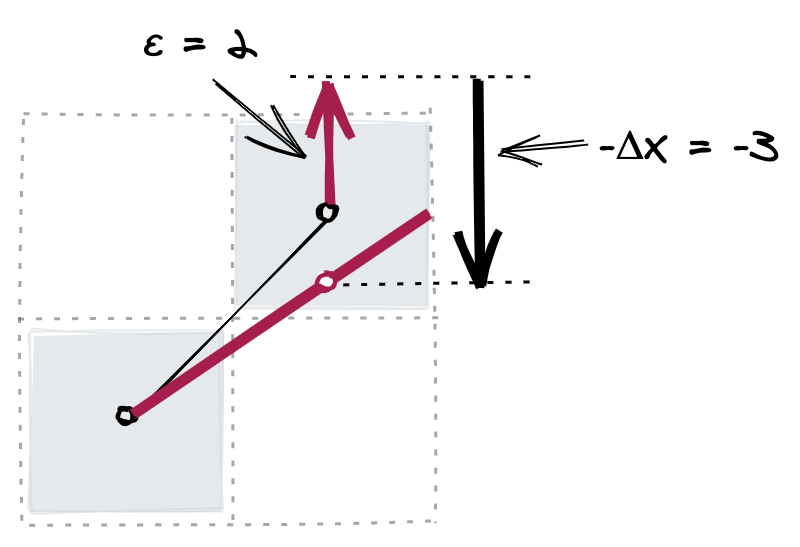
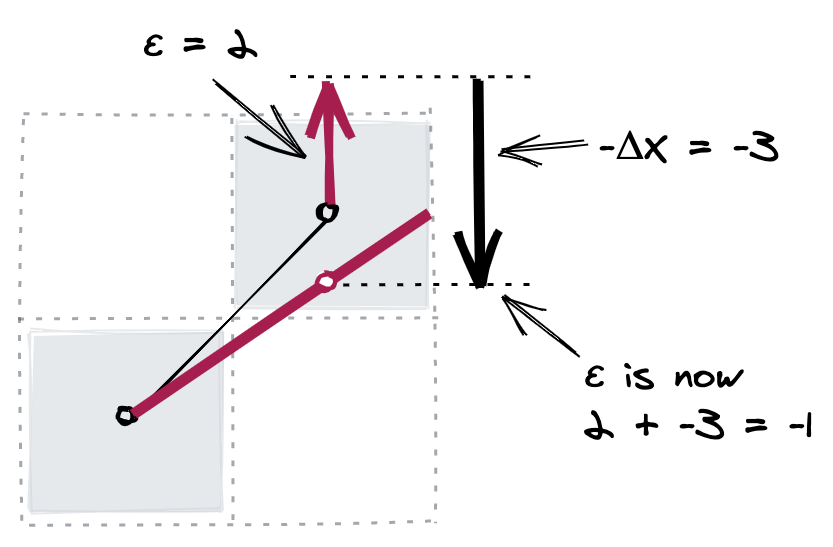
bresenham post changes

diff --git a/src/posts/2020-07-28-bresenhams-line-algorithm.md b/src/posts/2020-07-28-bresenhams-line-algorithm.md
@@ -18,7 +18,7 @@ In a vector graphics editor, a line drawn by the user is represented mathematica
 
 ![](/images/2020-07-28-bresenhams-line-algorithm/01_vector-vs-raster-v2-2x.png "Vector graphics compared to raster graphics when magnified")
 
-When a user draws a line in a raster graphics editor, it needs to be [rasterised](https://en.wikipedia.org/wiki/Rasterisation) to determine which pixels should be filled. Often the aim is to produce a smooth result and so [anti-aliasing](https://en.wikipedia.org/wiki/Spatial_anti-aliasing) is applied as part of the process. The user might also want to be able to draw lines that start and end on fractional coordinates. Pixel art is different: the jagged look of non- anti-aliased rasterisation is preferred, and lines are always drawn from whole pixel to whole pixel.
+When a user draws a line in a raster graphics editor, it needs to be [rasterised](https://en.wikipedia.org/wiki/Rasterisation) to determine which pixels should be filled. Often the aim is to produce a smooth result and so [anti-aliasing](https://en.wikipedia.org/wiki/Spatial_anti-aliasing) is applied as part of the process. The user might also want to be able to draw lines that start and end on fractional coordinates. Pixel art is different: the jagged look of non- anti-aliased rasterisation is preferred, and lines are drawn from whole pixel to whole pixel.
 
 ![](/images/2020-07-28-bresenhams-line-algorithm/02_aliased-vs-non-aliased-with-originals-v2-2x.png "Comparing rasterisation performed with and without anti-aliasing")
 
@@ -32,7 +32,7 @@ Explanations of the algorithm available on the Web at [Wikipedia](https://en.wik
 
 ![](/images/2020-07-28-bresenhams-line-algorithm/04_bresenham-guide-2x.png "The line to be rasterised")
 
-We can observe that, in rasterising this line, we will **always** be incrementing the X-axis coordinate but we will only **sometimes** be incrementing the Y-axis coordinate. This is because the change in X, which is 3, is greater than the change in Y, which is 2. The change in X is termed delta X, or ΔX, and the change in Y is termed delta Y, or ΔY. The reason we are using the Bresenham line algorithm is to answer the question of exactly when the Y-axis coordinate value should be incremented.
+We can observe that, in rasterising this line, we will _always_ be incrementing the X-axis coordinate but we will only _sometimes_ be incrementing the Y-axis coordinate. This is because the change in X, which is 3, is greater than the change in Y, which is 2. The change in X is termed delta X, or ΔX, and the change in Y is termed delta Y, or ΔY. The reason we are using the Bresenham line algorithm is to answer the question of exactly when the Y-axis coordinate value should be incremented.
 
 Conventionally, the 'always' axis is called the fast axis and the 'sometimes' axis is called the slow axis:
 
@@ -42,7 +42,7 @@ Depending on the line being rasterised, it is not always the case that the X-axi
 
 ![](/images/2020-07-28-bresenhams-line-algorithm/06_bresenham-guide-2x.png "The fast axis classification")
 
-Similarly, the following diagram shows how the slow axis classification also depends on the directional vector of the line, and how it also determines whether we need to sometimes increment or sometimes decrement the slow axis coordinate value:
+Similarly, the following diagram shows how the slow axis classification also depends on the directional vector of the line, and how it determines whether we need to sometimes increment or sometimes decrement the slow axis coordinate value:
 
 ![](/images/2020-07-28-bresenhams-line-algorithm/07_bresenham-guide-2x.png "The slow axis classification")
 
@@ -70,9 +70,9 @@ We can now define a rule: only increment the Y coordinate value if the intersect
 
 How do we express this mathematically? We could put exact figures into the calculation:
 
-![](/images/2020-07-28-bresenhams-line-algorithm/12b_bresenham-guide-2x.png "Using exact figures")
+![](/images/2020-07-28-bresenhams-line-algorithm/12b_bresenham-guide-2x.png "Using exact figures for determining the intersection point")
 
-The problem with doing this is that we will almost certainly end up with floating point values, and a key feature of the Bresenham algorithm is that it is implemented using only integer operations. We can avoid this if we use the rate of change of the fast axis as the unit value in our calculations. Thus the distance between the two pixels is ΔX, and the intersection point is ΔY above the lower pixel:
+The problem with doing this is that we will almost certainly end up with floating point values, and a key feature of the Bresenham algorithm is that it is implemented using only integer operations. We can avoid this if we use the rate of change of the fast axis as the unit value in our calculations. Thus the distance between the two pixels is ΔX, and the intersection point is ΔY above the starting pixel:
 
 ![](/images/2020-07-28-bresenhams-line-algorithm/13_bresenham-guide-2x.png "Using the rates of change to determine the intersection point")
 
@@ -96,25 +96,25 @@ Although we determined that the intersection point was closer to the pixel at (1
 
 ![](/images/2020-07-28-bresenhams-line-algorithm/17_bresenham-guide-2x.png "Desired change in Y versus actual change in Y")
 
-Each new iteration of the algorithm operates relative to the pixel filled in during the previous iteration. This requires us to first adjust the value of ε so that it is relative to the filled pixel. Since we incremented the Y-coordinate value, we can adjust ε by subtracting ΔX from it. This is 2 - 3 which equals -1 and so this is the new value of ε:
+Each new iteration of the algorithm operates relative to the pixel filled in the previous iteration. Since we are about to start a new iteration, we have to adjust the value of ε so that it is relative to the pixel just filled. We incremented the Y-coordinate value, so the change in Y was ΔX and thus we can adjust ε by subtracting ΔX from it. This is 2 - 3 which equals -1 and so this is the new value of ε:
 
 ![](/images/2020-07-28-bresenhams-line-algorithm/19_bresenham-guide-v2-2x.png "Adjusting ε after incrementing the Y coordinate value")
 
-Thus this new value of ε indicates that the true intersection point was below the filled pixel.
+This new value of ε indicates that the true intersection point was below the filled pixel, which is of course correct.
 
 We can now begin the next iteration of the algorithm:
 
 ![](/images/2020-07-28-bresenhams-line-algorithm/20_bresenham-guide-v2-2x.png "The third pixel to be filled")
 
-As before we have to determine if the Y coordinate value should be incremented or not. And as before we first add ΔY to ε. Since the value of ε after the last iteration was -1, the new value of ε is 1:
+As before we have to determine if the Y coordinate value should or should not be incremented. And as before we first add ΔY to ε. Since the value of ε after the last iteration was -1, the new value of ε is 1. We now put this information into our diagram for determining the intersection point between the two possible pixels to fill:
 
 ![](/images/2020-07-28-bresenhams-line-algorithm/21_bresenham-guide-2x.png "Using rates of change to determine the intersection point")
 
-Because of this error adjustment, the line that we are checking is actually the line that extends from the pixel that we last filled to the point at which the line being rasterised passes between the two pixels that we are currently considering. This is shown as the blue dashed line in the following diagram:
+The line that we are checking is actually the line that extends from the pixel that we last filled to the point at which the line being rasterised passes between the two pixels that we are currently considering. This is shown as the blue dashed line in the following diagram:
 
 ![](/images/2020-07-28-bresenhams-line-algorithm/22_bresenham-guide-2x.png "The effective line being tested")
 
-Again, to avoid a floating point value, we can multiply both values by two before making the comparison so that we are comparing 2ε (2) with ΔX (3):
+Again, to avoid a floating point value, we can multiply both values by two so that we are comparing 2ε (2) with ΔX (3):
 
 ![](/images/2020-07-28-bresenhams-line-algorithm/23_bresenham-guide-2x.png "Avoiding floating point values when comparing ε to the midpoint")
 
@@ -122,15 +122,17 @@ Since the intersection point is not above the midpoint, this time we do not incr
 
 ![](/images/2020-07-28-bresenhams-line-algorithm/24_bresenham-guide-2x.png "Filling the pixel at (2, 1)")
 
-Because the value of ε is not greater than the midpoint value, the next pixel has the same Y coordinate as the current pixel and we do not need to adjust the value of ε.
+Because we did not increment Y, the value of ε is still relative to the pixel that was just filled and so we do not need to adjust it in the way that we did after filling the previous pixel.
 
 Now we can determine the final pixel to fill:
 
 ![](/images/2020-07-28-bresenhams-line-algorithm/25_bresenham-guide-v2-2x.png "The final pixel to fill")
 
-(The pixel to fill is obviously (3, 2) but it is useful for illustrative purposes to continue the calculations.)
+(The pixel to fill is obviously (3, 2) but it is useful for illustrative purposes to continue these calculations.)
 
-Again we have to determine if Y should be incremented or not, and so we determine which pixel the line to rasterise is closest to:
+Since we are starting a new iteration of the algorithm, we have to first add ΔY to ε. The value of ε after the last iteration was 1 so the new value of ε is 3.
+
+As before, we need to determine which pixel the line to rasterise is closest to:
 
 ![](/images/2020-07-28-bresenhams-line-algorithm/26_bresenham-guide-2x.png "Using rates of change to determine the intersection point")
 
@@ -138,11 +140,11 @@ And as before, the line that we are checking is actually the line that extends f
 
 ![](/images/2020-07-28-bresenhams-line-algorithm/27_bresenham-guide-2x.png "The effective line being tested")
 
-As before, we multiply the values by 2 when comparing:
+As before, we multiply the values by 2 when comparing them:
 
 ![](/images/2020-07-28-bresenhams-line-algorithm/28_bresenham-guide-2x.png "Avoiding floating point values when comparing ε to the midpoint")
 
-The value of ε is greater than the threshold so the final pixel to fill is (3, 2) rather than (3, 1):
+The value of ε is greater than the threshold so the final pixel to be filled is (3, 2) rather than (3, 1):
 
 ![](/images/2020-07-28-bresenhams-line-algorithm/29_bresenham-guide-2x.png "The final rasterisation result")
 
@@ -207,7 +209,7 @@ var sy = dy > 0 ? 1 : -1;
 
 The value of `sx` ('sign X') indicates if ΔX is positive (when `sx` is `1`) or negative (when `sx` is `-1`). Similarly the value of `sy` ('sign Y') indicates if ΔY is positive (when `sy` is `1`) or negative (when `sy` is `-1`).
 
-The epsilon variable, called `eps` is defined next. As expected, it is initialised to zero:
+The epsilon variable, called `eps`, is defined next. As expected it is initialised to zero:
 
 ```js
 var eps = 0;
@@ -219,7 +221,7 @@ The algorithm now branches depending on whether the fast axis is the X-axis or t
 
 The diagram also shows that if the fast axis is the X-axis then the value of `sx` indicates if the X coordinate value should be incremented or decremented. If the fast axis is the Y-axis then it is the value of `sy` that is used to indicate this for the Y coordinate value.
 
-Let us consider the scenario when the X-axis is the fast axis. The for-loop that executes is the following:
+Let us consider the scenario where the X-axis is the fast axis. The for-loop that executes is the following:
 
 ```js
 for (var x = x0, y = y0; sx < 0 ? x >= x1 : x <= x1; x += sx) {
@@ -232,13 +234,13 @@ for (var x = x0, y = y0; sx < 0 ? x >= x1 : x <= x1; x += sx) {
 }
 ```
 
-The variables `x` and `y` identify the next pixel to be filled. The variable `x` to the line's starting X value and is is always incremented if ΔX is positive or always decremented if ΔX is negative, until `x1` is reached. The variable `y` is initialised to the line's starting Y value. At the start of each loop iteration, `x` and `y` are pushed to the result array:
+The variables `x` and `y` identify the next pixel to be filled. The variable `x` is initialised to the line's starting X value and is always incremented if ΔX is positive or always decremented if ΔX is negative, until `x1` is reached. The variable `y` is initialised to the line's starting Y value. At the start of each iteration of the loop, `x` and `y` are pushed to the result array:
 
 ```js
 arr.push({ x: x, y: y });
 ```
 
-Also, the absolute value of ΔY is added to ε:
+Then the absolute value of ΔY is added to ε:
 
 ```js
 eps += ady;
@@ -252,7 +254,7 @@ if (eps << 1 >= adx)
 
 (The expression `eps << 1` has the effect of multiplying ε by 2.)
 
-If this condition tests as true then two actions occur. First the value of `y` is incremented or decremented (according to the directional vector of the line):
+If this condition tests as true then two actions occur. Firstly the value of `y` is incremented or decremented (according to the directional vector of the line):
 
 ```js
 y += sy;
@@ -290,7 +292,7 @@ And finally here is a line from (0, 0) to (14, 2), which I would prefer to be ra
 
 ![](/images/2020-07-28-bresenhams-line-algorithm/prefer-5-5-5-2x.png "Rasterisation of a line from (0, 0) to (14, 2)")
 
-As shown in this post, the Bresenham line algorithm rasterises a line that extends from the centre of the pixel at the start of the line to the centre of the pixel at the end of the line. In order to change the rasterisation result, we would need to change this line somehow. If we want a line from (0, 0) to (8, 2) to indeed be rasterised as an increment in Y for every third increment in X, we would need to rasterise a slightly different line:
+As shown in this post, the Bresenham line algorithm rasterises an imaginary line that extends from the centre of the pixel at the start of the line to the centre of the pixel at the end of the line. In order to change the rasterisation result, we would need to change this imaginary line somehow. If we want a line from (0, 0) to (8, 2) to indeed be rasterised as an increment in Y for every third increment in X, we would need to rasterise a slightly different line:
 
 ![](/images/2020-07-28-bresenhams-line-algorithm/actual-vs-theoretical-2x.png "Actual versus preferred rasterisation of a line from (0, 0) to (8, 2)")
 
@@ -303,7 +305,7 @@ Let us now calculate some values for these differences. The new line has ΔX and
 
 ![](/images/2020-07-28-bresenhams-line-algorithm/different-gradient-2x.png "The ΔX and ΔY values for the new line")
 
-With the existing line, the ε (epsilon) value is initialised to zero because the starting point for the line is at the centre of the starting pixel. For the new line, the initial value of ε needs to be some negative value to position the starting point of the line below the centre of the starting pixel:
+With the existing line, the ε (epsilon) value is initialised to zero because the starting point of the line is at the centre of the starting pixel. For the new line, the initial value of ε needs to be some negative value to position the starting point of the line below the centre of the starting pixel:
 
 ![](/images/2020-07-28-bresenhams-line-algorithm/starting-epsilon-2x.png "Unknown starting value of ε for the new line")
 
@@ -311,13 +313,13 @@ We represent the change in X of each pixel increment as ΔX and the change in Y 
 
 ![](/images/2020-07-28-bresenhams-line-algorithm/halfway-calculation-2x.png "Calculating the starting point of the line to rasterize")
 
-However, we need the change in Y to be relative to the centre of the pixel. This is the value we will initialise ε to. We can calculate this by subtracting ΔX × 0.5 from ΔY × 0.5:
+However, we need the change in Y to be relative to the centre of the pixel. This is the value that we will initialise ε to. We can calculate this by subtracting ΔX × 0.5 from ΔY × 0.5:
 
 ![](/images/2020-07-28-bresenhams-line-algorithm/calculating-epsilon-2x.png "Calculating the starting value of ε for the new line")
 
 This can be rewritten as (ΔY - ΔX) × 0.5.
 
-Now that we have expressions for these differences, we can update the Bresenham line algorithm implementation from the previous section to the following:
+Now that we have expressions for these differences, we can take the Bresenham line algorithm implementation from the previous section and update it to the following:
 
 ```js
 function bresenhamVariation(x0, y0, x1, y1) {
@@ -360,9 +362,9 @@ var adx = (Math.abs(dx) + 1) << 1;
 var ady = (Math.abs(dy) + 1) << 1;
 ```
 
-The doubling is because the calculation of the initial value of ε requires multiplying by one half, so to avoid a potential floating point value here I double `adx` and `ady`.
+The calculation of the initial value of ε requires multiplying by one half, and so to avoid a potential floating point value here I double `adx` and `ady`.
 
-The initial value of ε now depends on whether the fast axis is the X-axis or the Y-axis:
+The final change I made is that the initial value of ε is now calculated differently depending on whether the fast axis is the X-axis or the Y-axis:
 
 ```js
 if (adx > ady) {
@@ -378,7 +380,7 @@ if (adx > ady) {
 }
 ```
 
-You will find a simple interactive visualisation below that you can use to compare lines produced by the original Bresenham line algorithm with those produced by the altered algorithm. Click on a square to draw a line from the center of the visualisation to that location. Use the dropdown to select the algorithm.
+You will find a simple interactive visualisation below that you can use to compare the lines produced by the original Bresenham line algorithm with those produced by the altered algorithm. Click on a square to draw a line from the center of the visualisation to that location. Use the dropdown to select the algorithm.
 
 <div style="overflow: scroll;">
   <iframe src="/iframes/bresenham.html" width="461" height="518"></iframe>
@@ -393,4 +395,4 @@ The Bresenham line algorithm may have been invented many years ago but it is sti
 ## Changelog
 
 - 2020-07-30 Initial version
-- 2020-08-03 Minor fixes and image changes
+- 2020-08-03 Some wording and image changes.

diff --git a/src/posts/2020-06-23-programming-the-nes-the-6502-in-detail.md b/src/posts/2020-06-23-programming-the-nes-the-6502-in-detail.md
@@ -12,7 +12,7 @@ author:
 
 In the previous post I presented an overview of the NES and its subsystems. A key component is the CPU, which is a version of the [MOS Technology 6502](https://en.wikipedia.org/wiki/MOS_Technology_6502) CPU. In order to write games for the NES, it is necessary to have a good understanding of the functioning of the 6502 and how to program it using assembly. This post covers basic assembly, binary number theory, the processor registers, the addressing modes, the call stack, interrupts, and the opcodes.
 
-The primary reference for this post is the original [MOS MCS6500 microcomputer family programming manual](http://archive.6502.org/books/mcs6500_family_programming_manual.pdf). It is quite a dense read, but it does include a lot of useful advice and many worked examples. Since the CPU in the NES does not support the 6502's binary coded decimal mode, any information in the manual regarding it can be ignored.
+The primary reference for this post is the original [MOS MCS6500 microcomputer family programming manual](http://archive.6502.org/books/mcs6500_family_programming_manual.pdf). It is quite a dense read but it does include a lot of useful advice and many worked examples. Since the CPU in the NES does not support the 6502's binary coded decimal mode, any information in the manual regarding it can be ignored.
 
 If you have not done so already, I recommend that you read the [first post in this series](/blog/posts/2020/06/22/programming-the-nes-the-nes-in-overview) before this one.
 
@@ -34,15 +34,15 @@ The bits of a byte are numbered from 0 to 7, with bit #0 being the least signifi
 
 #### Hexadecimal literals
 
-[Hexadecimal](https://en.wikipedia.org/wiki/Hexadecimal) (or hex) literal values are prefixed by a dollar sign, for example `$0F`.
+[Hexadecimal](https://en.wikipedia.org/wiki/Hexadecimal), or hex, literal values are prefixed by a dollar sign, for example `$0F`.
 
 Each digit in a hexadecimal literal represents a [nibble](https://en.wikipedia.org/wiki/Nibble). A byte consists of two nibbles, so a single byte is written as two hexadecimal digits and a two-byte value is written as four hexadecimal digits. Thus `$3F` represents a byte value and `$C008` represents a two-byte value.
 
-The first byte of a two-byte value is the [most significant byte](https://en.wikipedia.org/wiki/Bit_numbering#Most_significant_byte) (MSB) and the second byte is the [least significant byte](https://en.wikipedia.org/wiki/Bit_numbering#Least_significant_byte) (LSB). Given the hex value `$C008`, the MSB is `$C0` and the LSB is `$08`.
+The first byte of a two-byte value is the [most significant byte](https://en.wikipedia.org/wiki/Bit_numbering#Most_significant_byte) (MSB) and the second byte is the [least significant byte](https://en.wikipedia.org/wiki/Bit_numbering#Least_significant_byte) (LSB). So given the hex value `$C008`, the MSB is `$C0` and the LSB is `$08`.
 
 #### Decimal literals
 
-Literal values without a dollar sign or percent sign prefix are regular decimal values.
+Literal values without a dollar or percent sign prefix are regular decimal values.
 
 ### Comments
 
@@ -56,9 +56,9 @@ LDA #$04 ; This comment comes after an instruction
 
 ### Opcodes
 
-A program instruction represents a particular operation on a particular byte of data. The operation is identified by the [instruction operation code](https://en.wikipedia.org/wiki/Opcode) (opcode) used in the instruction. The opcode is a byte value in the range 0 to 255 inclusive. The 6502 officially supports 151 opcodes and they can be grouped into [56 operations](http://www.6502.org/tutorials/6502opcodes.html). Each opcode in a group performs the same basic operation (such as adding two numbers together) but it will use a different addressing mode to specify the byte of data to operate on. (Addressing modes are covered later in this post.)
+A program instruction represents a particular operation to be performed, and it may or may not include an operand. The operation is identified by the [instruction operation code](https://en.wikipedia.org/wiki/Opcode) (opcode) used in the instruction. The opcode is a byte value in the range 0 to 255 inclusive. The 6502 officially supports 151 opcodes and they can be grouped into [56 operations](http://www.6502.org/tutorials/6502opcodes.html). Each opcode in a group performs the same basic operation (such as adding two numbers together) but it will use a different addressing mode to specify the data to operate on. (Addressing modes are covered later in this post.)
 
-For each instruction in your program, the assembler needs to determine which of the 151 opcodes to output as the generated machine code. The basic operation is indicated by which three-letter mnemonic is used in the instruction. The mnemonic is not case sensitive.
+For each instruction in your program, the assembler needs to determine which of the 151 opcodes to output as the generated machine code. The basic operation is indicated by the particular three-letter mnemonic that is used in the instruction. The mnemonic is not case sensitive.
 
 ```asm6502
 SEI       ; The mnemonic is SEI.
@@ -75,7 +75,7 @@ ADC $04, X   ; The opcode is $61.
 ADC ($04), Y ; The opcode is $71.
 ```
 
-The particular syntax used with the operand indicates to the assembler which addressing mode is being used and so which one of the `ADC`{lang=asm6502}-related opcodes to output.
+The particular syntax used with the operand indicates to the assembler exactly which addressing mode is being used and so which one of the `ADC`{lang=asm6502}-related opcodes to output.
 
 The assembler outputs the opcode first and the operand second, if there is one. The operand is one or two bytes in size so every machine instruction is either one, two, or three bytes in size.
 
@@ -400,11 +400,13 @@ Finally there is the **Processor Status** (P) register. This register actually o
 
 The **[Carry](https://en.wikipedia.org/wiki/Carry_flag)** (C) flag is used by the ALU as a carry or borrow bit for addition and subtraction, and as a ninth bit for the bit shifting operations.
 
-When the ALU is to be used for an addition operation, the Carry flag needs to be set if the addition should include a carry bit, or cleared if it should not. This flag then gets updated by the ALU as part of the addition operation. It gets set if the result of the addition includes a carry bit, or it gets cleared if the result does not include a carry bit.
+When the ALU is to be used for an addition operation, the Carry flag needs to be set if the addition should include a carry bit or cleared if it should not. This flag then gets updated by the ALU as part of the addition operation: it gets set if the result of the addition includes a carry bit, or it gets cleared if the result does not include a carry bit.
 
-When the ALU is to be used for a subtraction operation, the Carry flag needs to be set if the subtraction should not include a borrow bit, or cleared if it should. This flag then gets updated by the ALU as part of the subtraction operation. It gets set if the subtraction did not require a bit to be borrowed, or it gets cleared if the subtraction did require a bit to be borrowed.
+When the ALU is to be used for a subtraction operation, the Carry flag needs to be set if the subtraction should not include a borrow bit or cleared if it should include it. This flag then gets updated by the ALU as part of the subtraction operation: it gets set if the subtraction did not require a bit to be borrowed, or it gets cleared if the subtraction did require a bit to be borrowed.
 
-The **Negative** (N) flag is useful when values are being interpreted as signed values using two's complement representation. As described earlier in this post, in that representation the most significant bit (the sign bit) indicates if the value is negative, when that bit is set, or positive, when that bit is not set. To assist with checking whether a signed value is positive or negative, some instructions update the state of this Negative flag to the same state as bit #7 of the instruction result. So if we know that the result represents the MSB of a signed value, the state of this flag tells us if the result is positive or negative.
+The **Negative** (N) flag is useful when values are being interpreted as signed values using the two's complement representation. As described earlier in this post, in that representation the most significant bit (the sign bit) indicates if the value is negative, when that bit is set, or positive, when that bit is not set. To assist with checking whether a signed value is positive or negative, some instructions update the state of this Negative flag to the same state as bit #7 of the instruction result. So if we know that the result represents the MSB of a signed value, the state of this flag tells us if the result is positive or negative.
+
+(Note that the borrowing is conceptual since, as explained earlier, subtraction is implemented as a form of addition.)
 
 The [**Overflow**](https://en.wikipedia.org/wiki/Overflow_flag) (V) flag is set by the ALU when the sign bit of the result of an addition or subtraction does not have the expected state, specifically when the values being added or subtracted are interpreted as signed 8-bit values using the two's complement representation. If the Overflow flag is set then overflow has occurred and the result is not valid. If this flag is not set then overflow has not occurred. Note that it is only useful to check for overflow after adding or subtracting the MSBs of two signed values.
 
@@ -543,7 +545,7 @@ To use the emulator:
 2. Click the Assemble button. You can check for any assembler errors in the message box at the bottom of the page.
 3. Click the Run button to run the program.
 
-The state of the registers after the program runs is shown in the righthand column. To see the state of main memory, tick the Monitor option located just below the text area.
+The state of the registers after the program runs is shown in the righthand column. To see the state of the system RAM, tick the Monitor option located just below the text area.
 
 ### Operations for setting and clearing the Processor Status register flags
 
@@ -649,7 +651,7 @@ Clears the Decimal Mode flag of the Processor Status register.
 
 ### Operations for transferring bytes of data
 
-Many of the instructions in your programs will be for shuffling data around from main memory to the registers, between registers, and from the registers back to main memory. This is because very few operations directly mutate data in memory. You need to instead load a value into a register, operate on it, and then store the result somewhere.
+Many of the instructions in your programs will be for shuffling data around from the system RAM to the registers, between registers, and from the registers back to the system RAM. This is because very few operations directly mutate data in memory. You need to instead load a value into a register, operate on it, and then store the result somewhere.
 
 The following diagram shows the supported transfers:
 
@@ -927,14 +929,14 @@ Copies the value in the Stack Pointer to the X register.
 The following assembly demonstrates how these data transfer operations can be used to store a given 16-bit value in memory and then copy it to a another memory location:
 
 ```asm6502
-; Store the 16-bit value $0123 into main memory, in little endian format.
+; Store the 16-bit value $0123 into system RAM, in little endian format.
 
 LDA #$23  ; Load LSB as an immediate value into the Accumulator.
 STA $00   ; Store the Accumulator in memory at address $0000.
 LDA #$01  ; Load MSB as an immediate value into the Accumulator.
 STA $01   ; Store the Accumulator in memory at address $0001.
 
-; Copy that value to another location in memory.
+; Copy that value to another location in system RAM.
 
 LDA $00   ; Load LSB from address $0000 into the Accumulator.
 STA $02   ; Store the Accumulator in memory at address $0002.
@@ -1586,9 +1588,9 @@ When using these comparison operators, it is the state of the Carry and Zero fla
 
 #### The BIT operation
 
-The byte comparison operations (CMP, CPX and CPY) are useful for comparing whole bytes, but sometimes you only want to test particular bits of a byte in main memory. The answer is to use the BIT operation.
+The byte comparison operations (CMP, CPX and CPY) are useful for comparing whole bytes, but sometimes you only want to test particular bits of a byte in the CPU's address space. The answer is to use the BIT operation.
 
-A BIT operation performs a bitwise AND operation between the value in the Accumulator and the specified byte in memory. The value in the Accumulator is normally a bitmask for the test. The result of the operation is either zero (none of the bits tested were set in both bytes) or non-zero (one or more of the bits tested were set in both bytes). The Zero flag of the Processor Status register is used to communicate this result. The Negative and Overflow flags also get updated, but they are updated solely to the state of bits #7 and #6 respectively of the byte in main memory; they are not affected by the value in the Accumulator.
+A BIT operation performs a bitwise AND operation between the value in the Accumulator and the specified byte in memory. The value in the Accumulator is normally a bitmask for the test. The result of the operation is either zero (none of the bits tested were set in both bytes) or non-zero (one or more of the bits tested were set in both bytes). The Zero flag of the Processor Status register is used to communicate this result. The Negative and Overflow flags also get updated, but they are updated solely to the state of bits #7 and #6 respectively of the byte in the address space; they are not affected by the value in the Accumulator.
 
 The result of the AND operation is not stored anywhere; the value in the Accumulator is not updated. This is unlike the AND bitwise operation, which does store the operation's result in the Accumulator and so does update it.
 
@@ -1596,7 +1598,7 @@ The result of the AND operation is not stored anywhere; the value in the Accumul
 
 ##### BIT (Test Bits in Memory with Accumulator)
 
-Performs a bitwise AND operation between the value in the Accumulator and the specified byte in main memory. The value in the Accumulator is not updated.
+Performs a bitwise AND operation between the value in the Accumulator and the specified byte in the CPU's address space. The value in the Accumulator is not updated.
 
 ###### Processor Status register changes
 

diff --git a/src/posts/2020-06-22-programming-the-nes-the-nes-in-overview.md b/src/posts/2020-06-22-programming-the-nes-the-nes-in-overview.md
@@ -10,7 +10,7 @@ author:
 
 ## Introduction
 
-This is the first in a series of posts about programming the [Nintendo Entertainment System](https://en.wikipedia.org/wiki/Nintendo_Entertainment_System) (NES) games console. Released more than 35 years ago, the NES represents a way of programming that I have no prior experience of. I have always programmed in high-level languages that largely hide the underlying CPU architecture from the developer. While NES programs can be written in C, they are normally 'hand crafted' in [assembly language](https://en.wikipedia.org/wiki/Assembly_language) to get maximum performance out of the limited hardware. And writing in assembly means thinking about concepts like opcodes, addressing modes, registers, and the call stack. This is truly bare metal programming!
+This is the first in a series of posts about programming the [Nintendo Entertainment System](https://en.wikipedia.org/wiki/Nintendo_Entertainment_System) (NES) games console. Released more than 35 years ago, the NES represents a way of programming that I have no prior experience of. I have always programmed in high-level languages that largely hide the underlying CPU architecture from the developer. While NES programs can be written in C, they are normally 'hand crafted' in [assembly language](https://en.wikipedia.org/wiki/Assembly_language) to get maximum performance out of the limited hardware. And writing in assembly requires thinking about concepts like opcodes, addressing modes, registers, and the call stack. This is truly bare metal programming!
 
 ## The console
 
@@ -24,13 +24,13 @@ There was a version of the NES for the [PAL](https://en.wikipedia.org/wiki/PAL) 
 
 At the heart of the NES is a [central processing unit](https://en.wikipedia.org/wiki/Central_processing_unit) (CPU) made by Ricoh. It is based on the [MOS Technology 6502](https://en.wikipedia.org/wiki/MOS_Technology_6502), with the omission of a patented [binary coded decimal](https://en.wikipedia.org/wiki/Binary-coded_decimal) mode. The version of that CPU used in the NTSC NES was the [Ricoh 2A03](https://en.wikipedia.org/wiki/Ricoh_2A03) (a.k.a. RP2A03), and the version used in the PAL NES was the [Ricoh 2A07](https://en.wikipedia.org/wiki/Ricoh_2A03#Regional_variations) (a.k.a. RP2A07).
 
-A CPU works by executing machine instructions, each starting with an [instruction operation code](https://en.wikipedia.org/wiki/Opcode) (opcode) that identifies the particular operation that the CPU should perform. There are 151 official opcodes. Many of them include information &mdash; an operand &mdash; that is used to identify the data to be operated on.
+A CPU works by executing machine instructions, each starting with an [instruction operation code](https://en.wikipedia.org/wiki/Opcode) (opcode) that identifies the particular operation that the CPU should perform. There are 151 official opcodes. Many of them include information &mdash; an operand &mdash; that identifies the data to be operated on.
 
 The speed at which a CPU executes instructions is determined by its clock rate, which is measured in clock cycles per second. The clock rate of the NES's CPU depends on the version of the console, being 1.66 MHz for the PAL version and 1.79 MHz for the NTSC version. Most instructions take from 2 to 7 clock cycles to execute.
 
-Code written in the form of machine instructions is called [machine code](https://en.wikipedia.org/wiki/Machine_code). Games for the NES are usually written in assembly, a low-level programming language that closely resembles machine code but is much easier to write. An [assembler](https://en.wikipedia.org/wiki/Assembly_language#Assembler) is used to convert it into machine code.
+Code written in the form of machine instructions is called [machine code](https://en.wikipedia.org/wiki/Machine_code). Games for the NES are usually written in assembly, a low-level programming language that closely resembles machine code but is easier to write. An [assembler](https://en.wikipedia.org/wiki/Assembly_language#Assembler) is used to convert it into machine code.
 
-The CPU is an 8-bit CPU, meaning it has an 8-bit data bus. The data bus is the communication mechanism by which data is transferred, for example between memory and the CPU, and the width of the bus is the size in bits of the individual values that it transfers. An 8-bit data bus can only transfer 8 bits &mdash; one byte &mdash; at a time, so each machine instruction can only operate on 8-bit data values. If you need to manipulate values that cannot fit inside one byte then you need to write assembly that uses multiple instructions to achieve the desired result.
+The CPU is an 8-bit CPU, meaning it has an 8-bit data bus. The data bus is the communication mechanism by which data is transferred, for example between internal RAM and the CPU, and the width of the bus is the size in bits of the individual values that it transfers. An 8-bit data bus can only transfer 8 bits &mdash; one byte &mdash; at a time, so each machine instruction can only operate on 8-bit data values. If you need to manipulate values that cannot fit inside one byte then you need to write assembly that uses multiple instructions to achieve the desired result.
 
 The NES has only 2 KiB of internal (system) RAM, although this can be expanded via the game cartridge.
 
@@ -80,3 +80,4 @@ The NES has many limitations compared to today's game consoles and personal comp
 - 2020-06-23: Minor formatting changes
 - 2020-06-27: Minor formatting changes
 - 2020-06-28: Minor formatting changes
+- 2020-08-03: Minor wording changes
